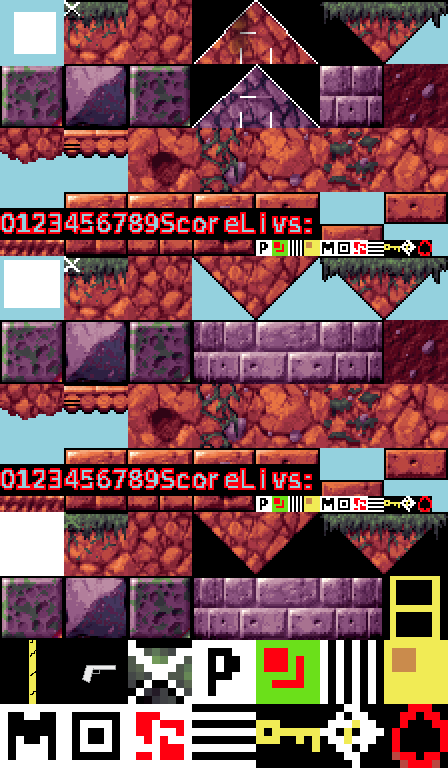
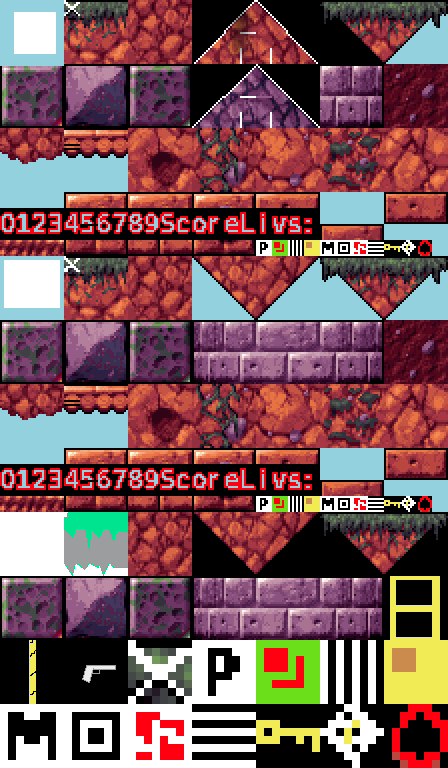
change tiles

Changed region(s): [[0.125, 0.6562, 0.3125, 0.75]]

diff --git a/devtools/convert_tiles/src/convert_tiles.java b/devtools/convert_tiles/src/convert_tiles.java
@@ -39,7 +39,7 @@ public class convert_tiles{
 	public static int  B_PLATFORM = 18 ; 
 	public static int  B_TILES_PINK = 3;
 	public static int  B_TILES_PURPLE = 8;
-	public static int  B_TILES_GREEN = 1;
+	public static int  B_TILES_GREEN = 2;
 	public static int  B_TILES_LADDER = 14;
 	public static int  B_START_SERIES_PINK = -2;
 	public static int  B_START_SERIES_PURPLE = - 3;
